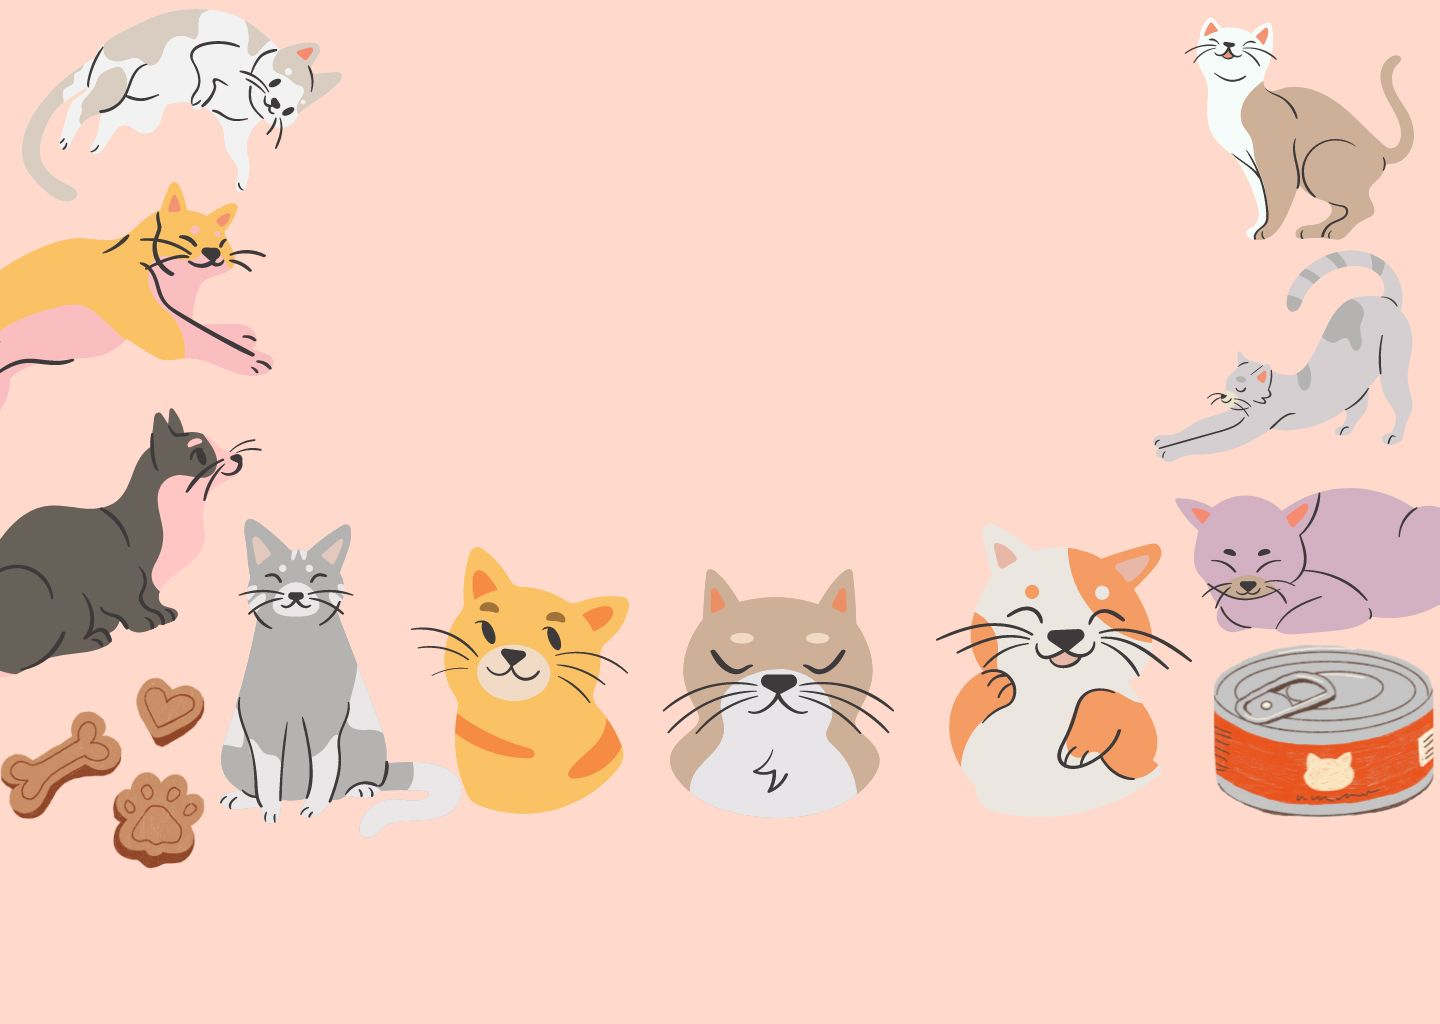
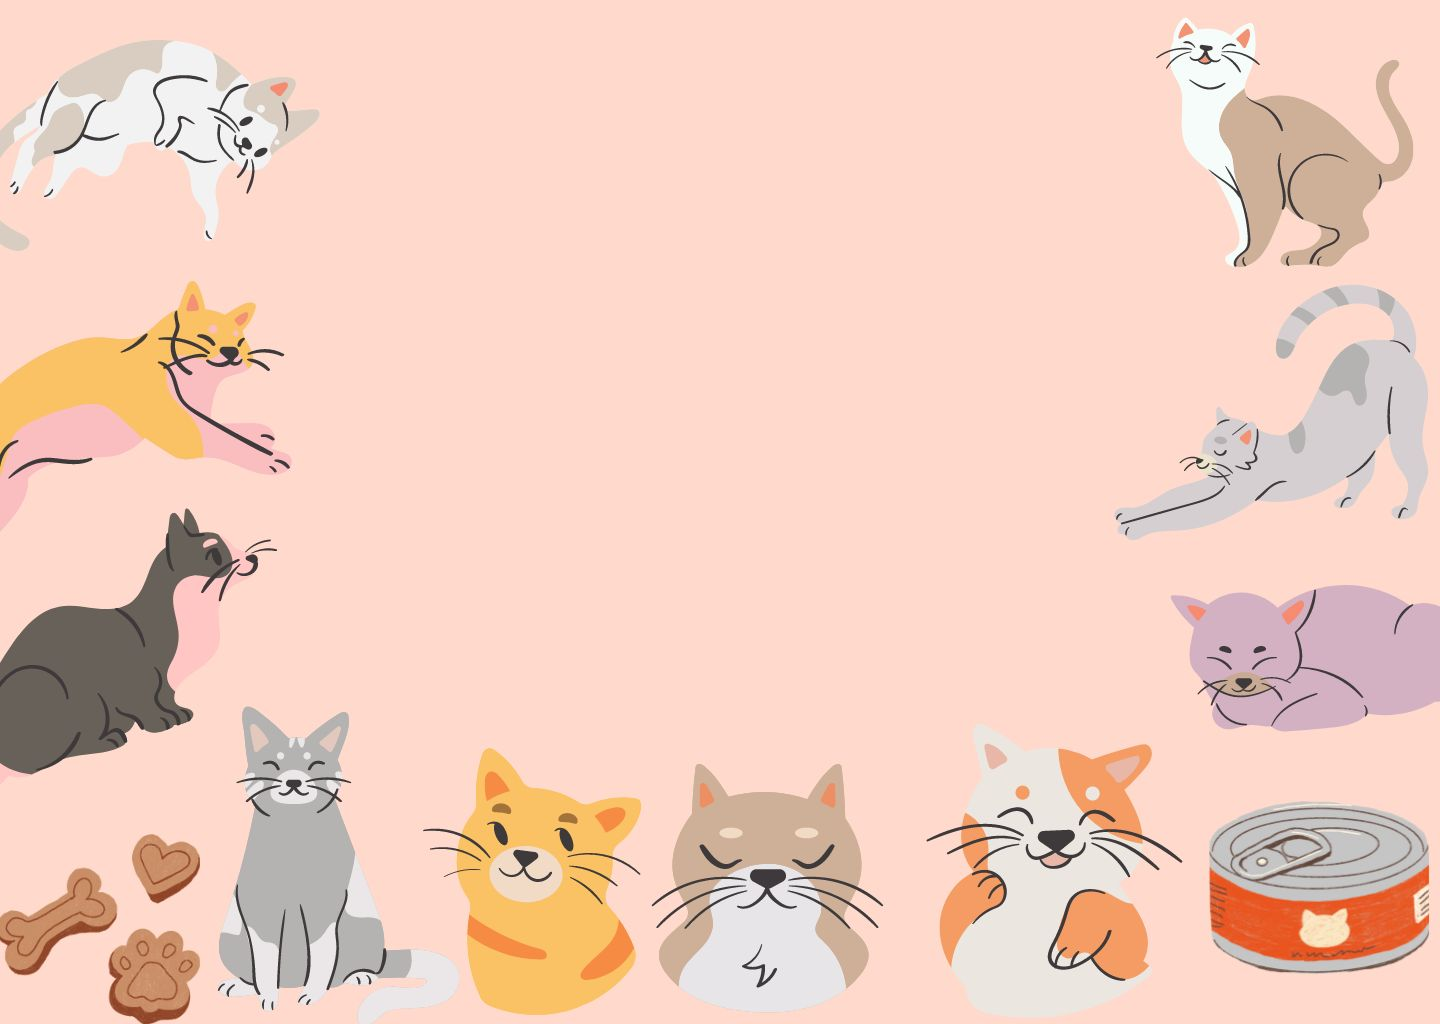
cerrar sesión, inicio de contador likes

diff --git a/src/style.css b/src/style.css
@@ -1,48 +1,48 @@
 html {
-    margin: 0%;
-    padding: 0%;
+  margin: 0%;
+  padding: 0%;
 }
+
 body {
-    background-image: url(./component/fondonuevo.jpg);     
-    text-align: center;
-    padding-top: 5%;
-    background-repeat: no-repeat;
-    background-size: cover;
-  
+  background-image: url(./component/fondonuevo.jpg);
+  text-align: center;
+  padding-top: 5%;
+  background-repeat: no-repeat;
+  background-size: cover;
 }
-.caja{
-    background: black;
-    
-    
-    
+
+.caja {
+  background: black;
 }
-/* div{
-    background: black;
-} */
+
 h1 {
-    font-family: 'Irish Grover', cursive;
-    color: #8EBD9F;
-    font-style: normal;
-    font-weight: 400;
-    font-size: 24px;
-    line-height: 29px;
+  font-family: 'Irish Grover', cursive;
+  color: #8EBD9F;
+  font-style: normal;
+  font-weight: 400;
+  font-size: 24px;
+  line-height: 29px;
 }
+
 p {
-    font-family: 'Jomhuria', cursive;;
-    font-style: normal;
-    font-weight: 400;
-    font-size: 30px;
-    line-height: 30px;
-    color: #8EBD9F;
-    margin: 1px;
+  font-family: 'Jomhuria', cursive;
+  ;
+  font-style: normal;
+  font-weight: 400;
+  font-size: 30px;
+  line-height: 30px;
+  color: #8EBD9F;
+  margin: 1px;
 }
-input{
-    background: #FFEEE6;
-    border-radius: 5px;
-    border: none;
-    padding: 8px;
-    /* display: flex; */
+
+input {
+  background: #FFEEE6;
+  border-radius: 5px;
+  border: none;
+  padding: 8px;
+  /* display: flex; */
 }
+
 /*button{
     background: #FCB1A7;
     color: #8EBD9F;
@@ -52,54 +52,81 @@ input{
     border: 1px;
     margin-bottom: 10px;
 }*/
-nav{
-    background: white;
+nav {
+  background: white;
 }
 
-.divPosteo{
-   display: flex;
-    flex-wrap: wrap;
-    flex-direction: column;
+.divPosteo {
+  flex-direction: column;
+  display: flex;
+  position: absolute;
+  top: 55%;
+  left: -25%;
+  width: 150%;
 }
 
-
-#posteo{
-    display: flex;
+#posteo {
+  display: flex;
   width: 25%;
-    margin: 20px;;
+  margin: 20px;
   background: #f3c6c0;
-    color: #448f5f;
+  color: #448f5f;
   padding-bottom: 20px;
- align-self: center;
- border-radius: 10px; 
- justify-content: center;
+  align-self: center;
+  border-radius: 10px;
+  justify-content: center;
 }
 
-#text-description{
-    resize: none;
+#text-description {
+  resize: none;
+  background-color: #8EBD9F;
+  position: relative;
+  border-radius: 5px;
+  top: 70px;
+  left: 20px;
+  -webkit-border-radius: 5px;
+  -moz-border-radius: 5px;
+  -ms-border-radius: 5px;
+  -o-border-radius: 5px;
 }
+
 /* Mobile */
 @media (max-width: 600px) {
-    .character-container {
-        width: 100%;
-        /* padding-left: 20%; */
-    }
-    body {
-        background: #FFDACC;       
-        text-align: center;   
-             
-    }
-    
+  .character-container {
+    width: 100%;
+    /* padding-left: 20%; */
+  }
+
+  body {
+    background: #FFDACC;
+    text-align: center;
+
+  }
+
 }
 
-.btnpost{
- 
- background: #FCB1A7;
- color: #8EBD9F;
- font-weight: bold;
- border-radius: 5px;
- padding: 7px;
- border: 1px;
- 
+.btnpost {
+  position: absolute;
+  top: 50%;
+  left: 47%;
+  background: #FCB1A7;
+  color: #8EBD9F;
+  font-weight: bold;
+  border-radius: 5px;
+  padding: 7px;
+  border: 1px;
 
+
+}
+
+.btnLogOut {
+  position: absolute;
+  top: 35%;
+  left: 45%;
+  background: #FCB1A7;
+  color: #8EBD9F;
+  font-weight: bold;
+  border-radius: 5px;
+  padding: 7px;
+  border: 1px;
 }

diff --git a/src/lib/firebase.js b/src/lib/firebase.js
@@ -1,9 +1,11 @@
-import { createUserWithEmailAndPassword, getAuth, signInWithPopup, GoogleAuthProvider, signInWithEmailAndPassword , sendEmailVerification } from 'https://www.gstatic.com/firebasejs/9.9.3/firebase-auth.js';
+import { collection, addDoc, query, onSnapshot, // collection, query, onSnapshot
+} from "https://www.gstatic.com/firebasejs/9.9.3/firebase-firestore.js";
+import {
+  createUserWithEmailAndPassword, getAuth, signInWithPopup, GoogleAuthProvider,
+  signInWithEmailAndPassword, sendEmailVerification, signOut
+} from 'https://www.gstatic.com/firebasejs/9.9.3/firebase-auth.js';
 const provider = new GoogleAuthProvider();
 import { auth, db } from './config.js';
-import {
-  collection, addDoc, query, onSnapshot,  // collection, query, onSnapshot
-} from "https://www.gstatic.com/firebasejs/9.9.3/firebase-firestore.js";
 import { changeRoute } from './ruta.js';
 //import { db } from './config.js';
 //import { showPosts } from '../component/wall.js';
@@ -54,6 +56,9 @@ async function createPost(texto) {
   console.log(db);
   await addDoc(collection(db, "post"), {
     content: texto,
+    likes: [],
+    date: new Date(),
+    author: "" // hacer ID del autor
   });
 
 }
@@ -84,6 +89,22 @@ export const ingresarConUsuario = (email, password) => {
     });
 }
 
-
-
+// // cerrar sesión
+// export const logOut = () => {
+//   signOut(auth).then(() => {
+//     window.location.hash = '#/login';
+//   }).catch((error) => {
+//     // An error happened.
+//   });
+// }
+// cerrar sesión
+export const logOut = () => {
+  signOut(auth).then(() => {
+    window.location.hash = "#/login";
+    console.log(logOut);
+  // Sign-out successful.
+}).catch((error) => {
+  // An error happened.
+});
+}
 export { createPost, unsub };

diff --git a/src/component/wall.js b/src/component/wall.js
@@ -1,4 +1,4 @@
-import { createPost , unsub } from "../lib/firebase.js";
+import { createPost , unsub, logOut } from "../lib/firebase.js";
 
 export const wall = () => {
 
@@ -12,7 +12,7 @@ export const wall = () => {
 
     const logoPrincipal = document.createElement("img");
     logoPrincipal.setAttribute("width", "200px");
-    logoPrincipal.setAttribute("src", "./component/logoTrans.png");
+    logoPrincipal.setAttribute("src", "./component/logoNuevo.png");
     muroPrinc.appendChild(logoPrincipal);
 
     muroPrinc.appendChild(document.createElement("br"));
@@ -48,9 +48,17 @@ export const wall = () => {
         divPosteo.innerHTML = "";
         createPost(posteo.value);
     });
-    muroPrinc.appendChild(botonPublicar);
+  muroPrinc.appendChild(botonPublicar);
+  muroPrinc.appendChild(posteo);
 
-    muroPrinc.appendChild(posteo);
+// botón cerrar sesión
+    const btnLogOut = document.createElement("button");
+    btnLogOut.className = "btnLogOut";
+  btnLogOut.textContent = "Cerrar Sesión";
+  btnLogOut.addEventListener('click', logOut);
+  muroPrinc.appendChild(btnLogOut);
+
+   
 
     muroPrinc.appendChild(document.createElement("br"));
     muroPrinc.appendChild(document.createElement("br"));
@@ -71,7 +79,8 @@ export const wall = () => {
         postCard.innerText= post.content;
         divPosteo.appendChild(postCard)
     });
-
+ // ----- CERRAR SESIÓN -----------
+ 
     
 
     // const botonPublicar = document.createElement("button");

diff --git a/src/component/login.js b/src/component/login.js
@@ -47,14 +47,14 @@ export const login = () => {
 return alert("ingresa tus datos")
     }else{
       ingresarConUsuario(ingresarCorreo.value, ingresarClave.value).then(() => {
-        changeRoute("#/wall");
+        window.location.hash = '#/wall'
       });
       
    }
     
   })
 
-  //function validarCorreo(){
+  // function validarCorreo(){
    // if (createUser)
 // a la funcion sendEmailVerification tenemos que decirle
 // que si el usuario esta verificado ingrese al muro y si no un alert para verificar correo

diff --git a/src/lib/ruta.js b/src/lib/ruta.js
@@ -29,3 +29,5 @@ export const changeRoute = (hash) => {
     rootContainer.appendChild(wall());
   }
 };
+
+//realizar una funcion que chequee si el usuario está logeado antes de cambiar la ruta
